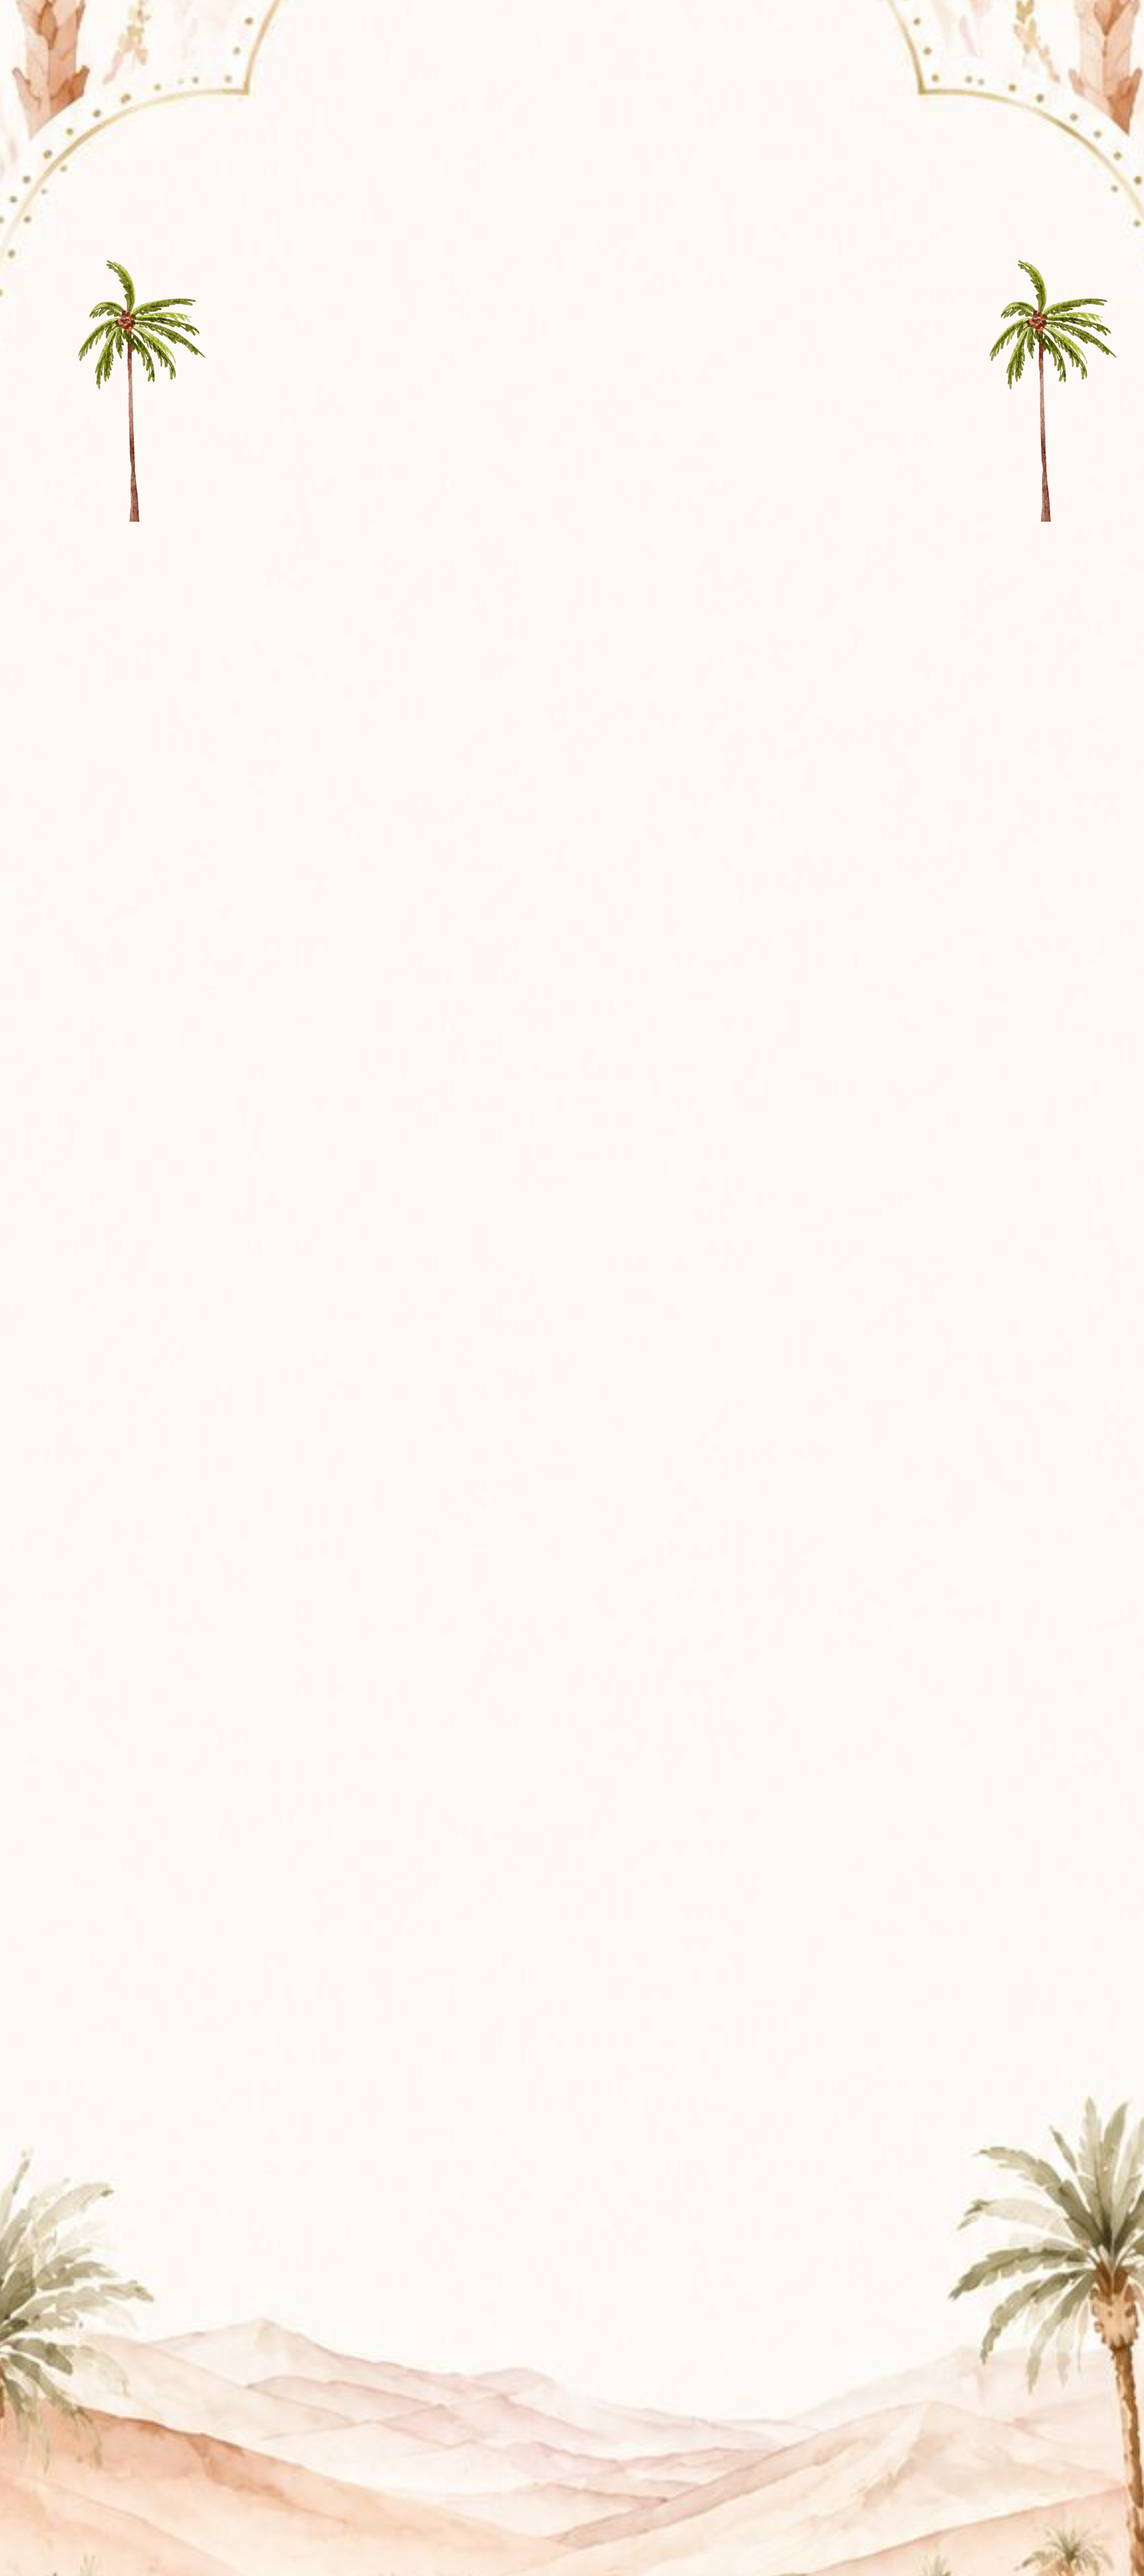
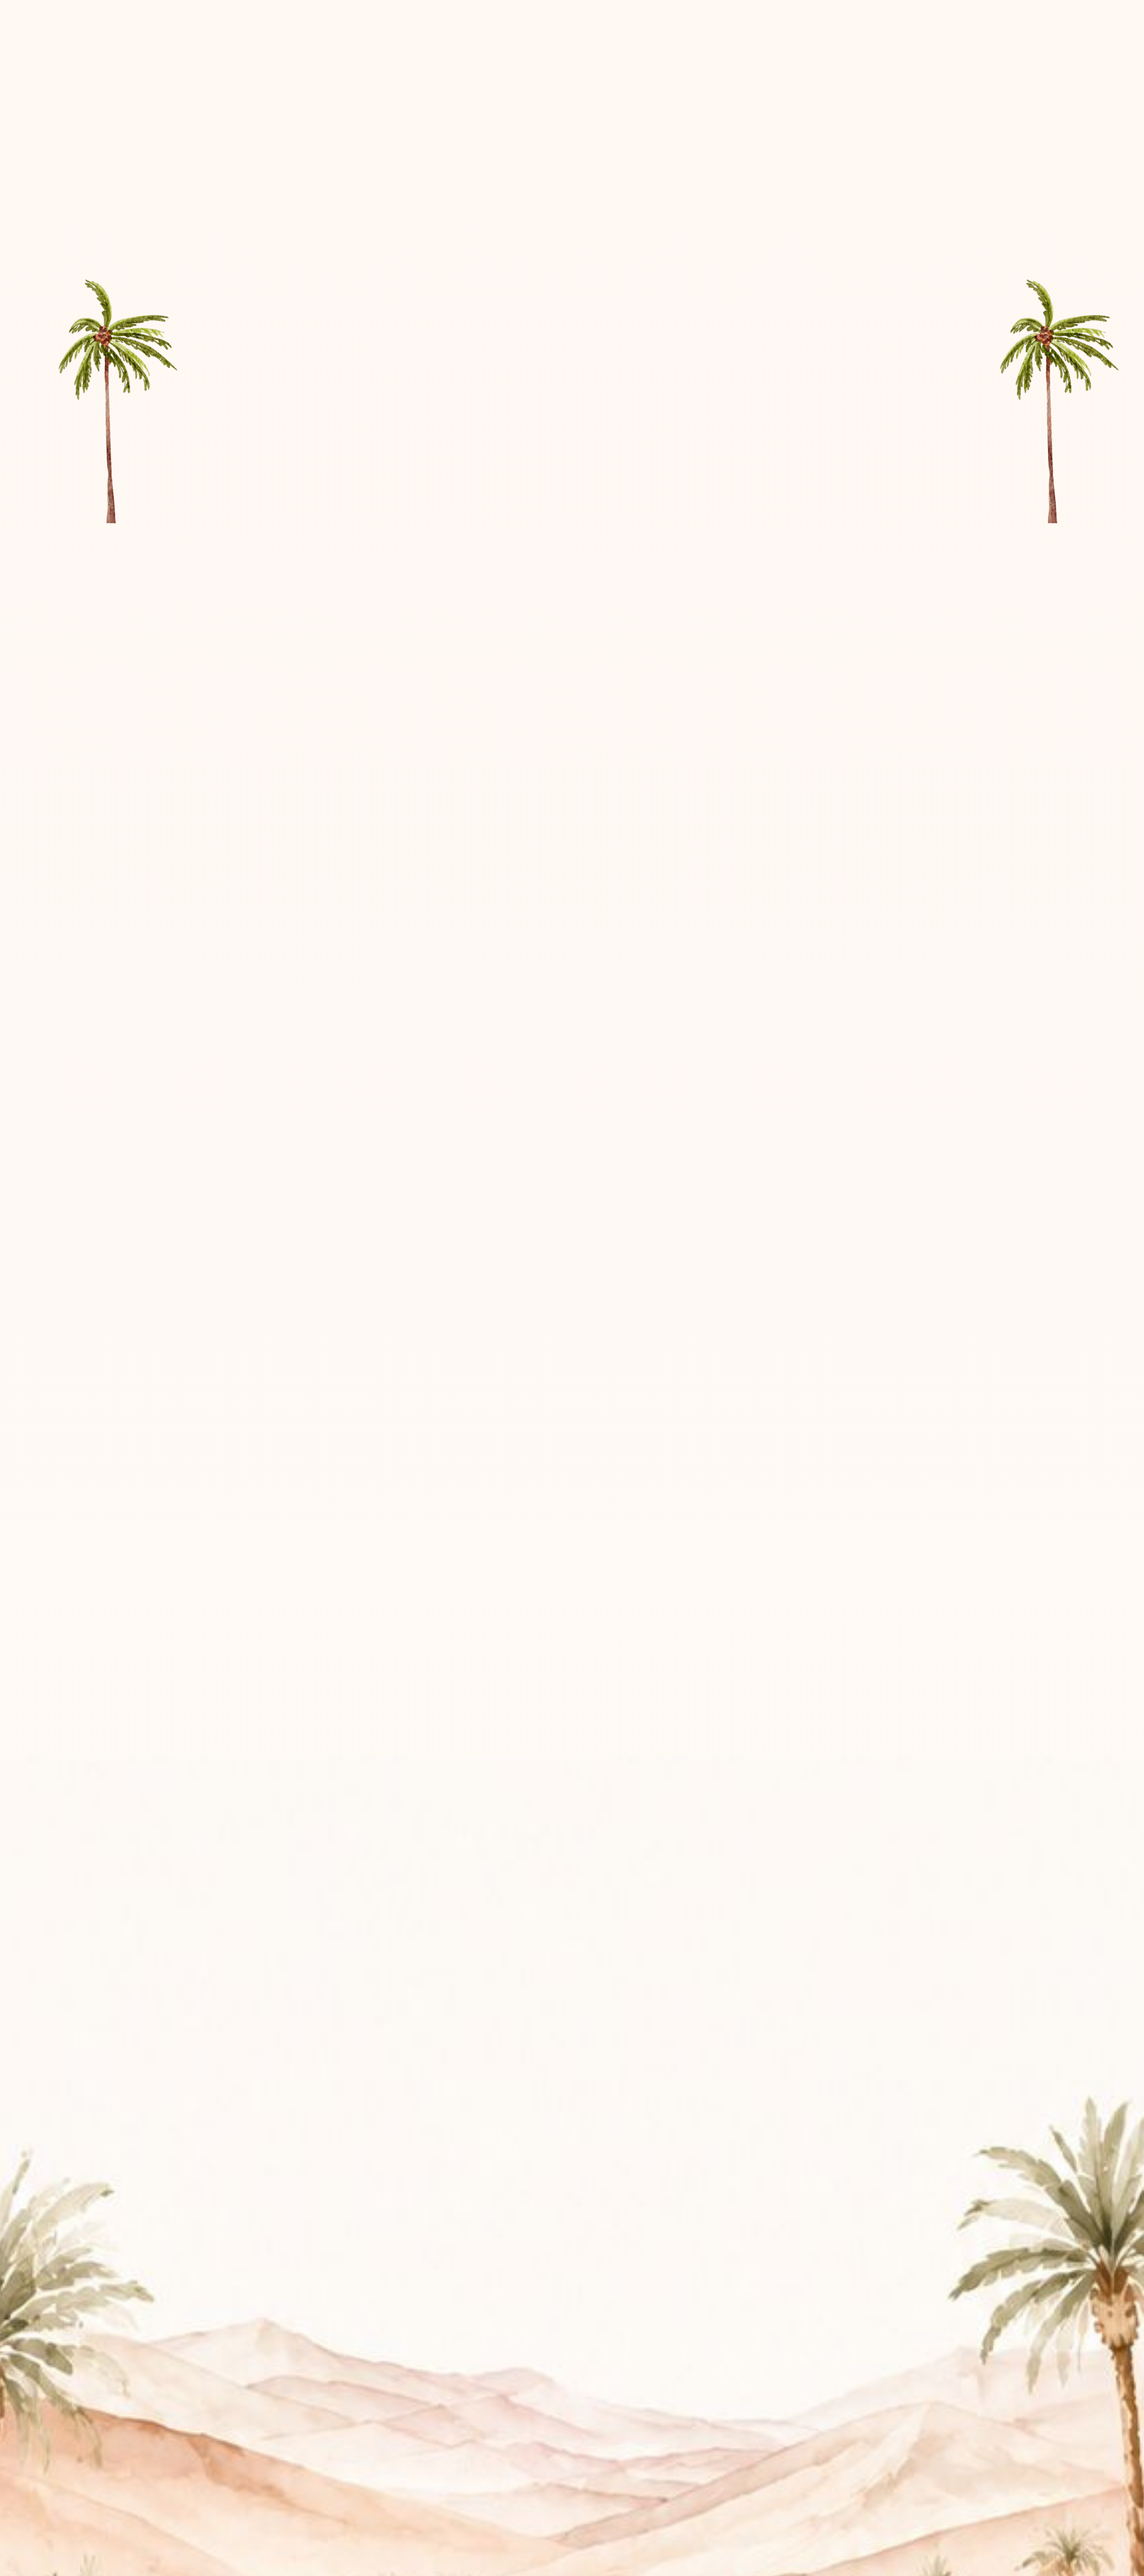
blur between

diff --git a/index.html b/index.html
@@ -62,8 +62,6 @@
       .section .bg {
         display: block;
         width: 100%;
-        transform: scale(1.08);
-        will-change: transform;
       }
 
       .section .overlay {
@@ -74,20 +72,29 @@
         align-items: center;
         text-align: center;
         color: #8f5b3e;
+        z-index: 2;
+        will-change: transform;
+      }
+
+
+
+      .details {
+        z-index: 2;
+        margin-bottom: clamp(-120px, -21vw, -60px);
+        -webkit-mask-image: linear-gradient(to bottom, black 90%, transparent 99%);
+        mask-image: linear-gradient(to bottom, black 90%, transparent 99%);
+      }
+      .form-section {
+        z-index: 1;
       }
 
       /* ── Details overlay ─────────────────────────────────── */
-      /* Image aspect ratio ≈ 2.25 (height:width).
-       Content should start at ~22% from image top → 22% × 2.25 = 49.5% of width.
-       Mountains occupy last ~15% → 15% × 2.25 = 34% of width as padding-bottom. */
       .details .overlay {
         padding: 37% 16% 34%;
         justify-content: space-evenly;
       }
 
       /* ── Form overlay ────────────────────────────────────── */
-      /* Content area starts at ~12% from image top → 12% × 2.25 = 27%.
-       Mountains occupy last ~20% → 20% × 2.25 = 45%. */
       .form-section .overlay {
         padding: 32% 14% 45%;
         justify-content: space-evenly;
@@ -641,11 +648,11 @@
 
       function applyParallax() {
         document.querySelectorAll(".section").forEach(section => {
-          const bg = section.querySelector(".bg");
+          const overlay = section.querySelector(".overlay");
           const rect = section.getBoundingClientRect();
           const progress = (rect.top + rect.height / 2 - window.innerHeight / 2) / window.innerHeight;
-          const offset = progress * 40;
-          bg.style.transform = `scale(1.08) translateY(${offset}px)`;
+          const offset = progress * 35;
+          overlay.style.transform = `translateY(${offset}px)`;
         });
       }
 
